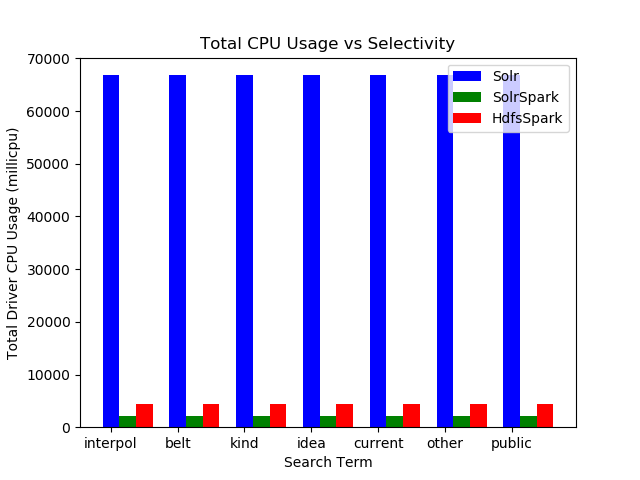
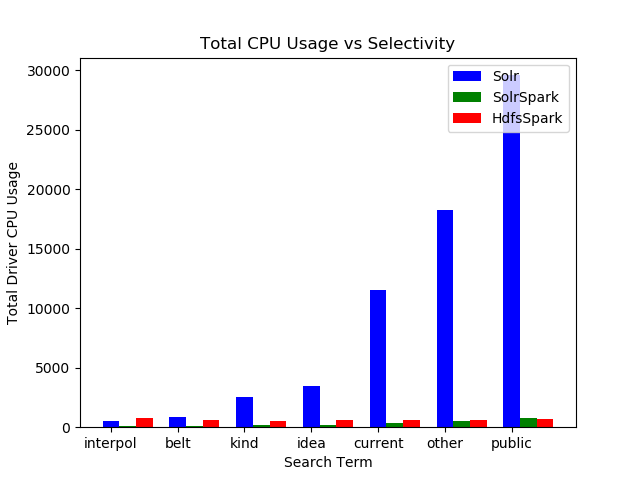
Fix np.sum error

diff --git a/report/resource_usage.py b/report/resource_usage.py
@@ -320,11 +320,10 @@ def draw_bar_terms():
                 term_exps[term][exp_type]['hdfs_cpu_usage'] = np.pad(term_exps[term][exp_type]['hdfs_cpu_usage'], (left_pad, right_pad), 'edge')
                 term_exps[term][exp_type]['hdfs_mem_usage'] = np.pad(term_exps[term][exp_type]['hdfs_mem_usage'], (left_pad, right_pad), 'edge')
 
-    exp1_driver_cpu_usage = np.sum([term_exps[term]['solr']['cpu_usage'] for term in terms])
-
-    exp2_driver_cpu_usage = np.sum([term_exps[term]['spark_solr']['cpu_usage'] for term in terms])
-
-    exp3_driver_cpu_usage = np.sum([term_exps[term]['hdfs_spark']['cpu_usage'] for term in terms])
+    # cpu
+    exp1_driver_cpu_usage = np.sum([term_exps[term]['solr']['cpu_usage'] for term in terms], axis=1)
+    exp2_driver_cpu_usage = np.sum([term_exps[term]['spark_solr']['cpu_usage'] for term in terms], axis=1)
+    exp3_driver_cpu_usage = np.sum([term_exps[term]['hdfs_spark']['cpu_usage'] for term in terms], axis=1)
 
     X = np.arange(len(terms))
 
@@ -341,10 +340,35 @@ def draw_bar_terms():
 
     plt.xticks(X, terms)
     plt.xlabel('Search Term')
-    plt.ylabel('Total Driver CPU Usage (millicpu)')
+    plt.ylabel('Total Driver CPU Usage')
     plt.legend(['Solr', 'SolrSpark', 'HdfsSpark'], loc='upper right')
 
     plt.savefig(os.path.join(graphs_dir, "cpu_selectivity.png"))
+
+    # memory
+    exp1_driver_mem_usage = np.sum([term_exps[term]['solr']['mem_usage'] for term in terms], axis=1)
+    exp2_driver_mem_usage = np.sum([term_exps[term]['spark_solr']['mem_usage'] for term in terms], axis=1)
+    exp3_driver_mem_usage = np.sum([term_exps[term]['hdfs_spark']['mem_usage'] for term in terms], axis=1)
+
+    X = np.arange(len(terms))
+
+    plt.title("Total Memory Usage vs Selectivity")
+
+    # driver totals
+    plt.bar(X, exp1_driver_mem_usage, color='b', width=0.25)
+
+    # solr totals
+    plt.bar(X + 0.25, exp2_driver_mem_usage, color='g', width=0.25)
+
+    # spark totals
+    plt.bar(X + 0.50, exp3_driver_mem_usage, color='r', width=0.25)
+
+    plt.xticks(X, terms)
+    plt.xlabel('Search Term')
+    plt.ylabel('Total Driver Memory Usage')
+    plt.legend(['Solr', 'SolrSpark', 'HdfsSpark'], loc='upper right')
+
+    plt.savefig(os.path.join(graphs_dir, "mem_selectivity.png"))
 
 ###
 
@@ -379,8 +403,8 @@ for term in terms:
         print('\trun_time - ', driver_run_time, 's')
         print('\tlog length - ', driver_log_length, 'm')
 
-draw_line_exp()
-# draw_bar_terms()
+# draw_line_exp()
+draw_bar_terms()
 
 # mapping = {}
 
